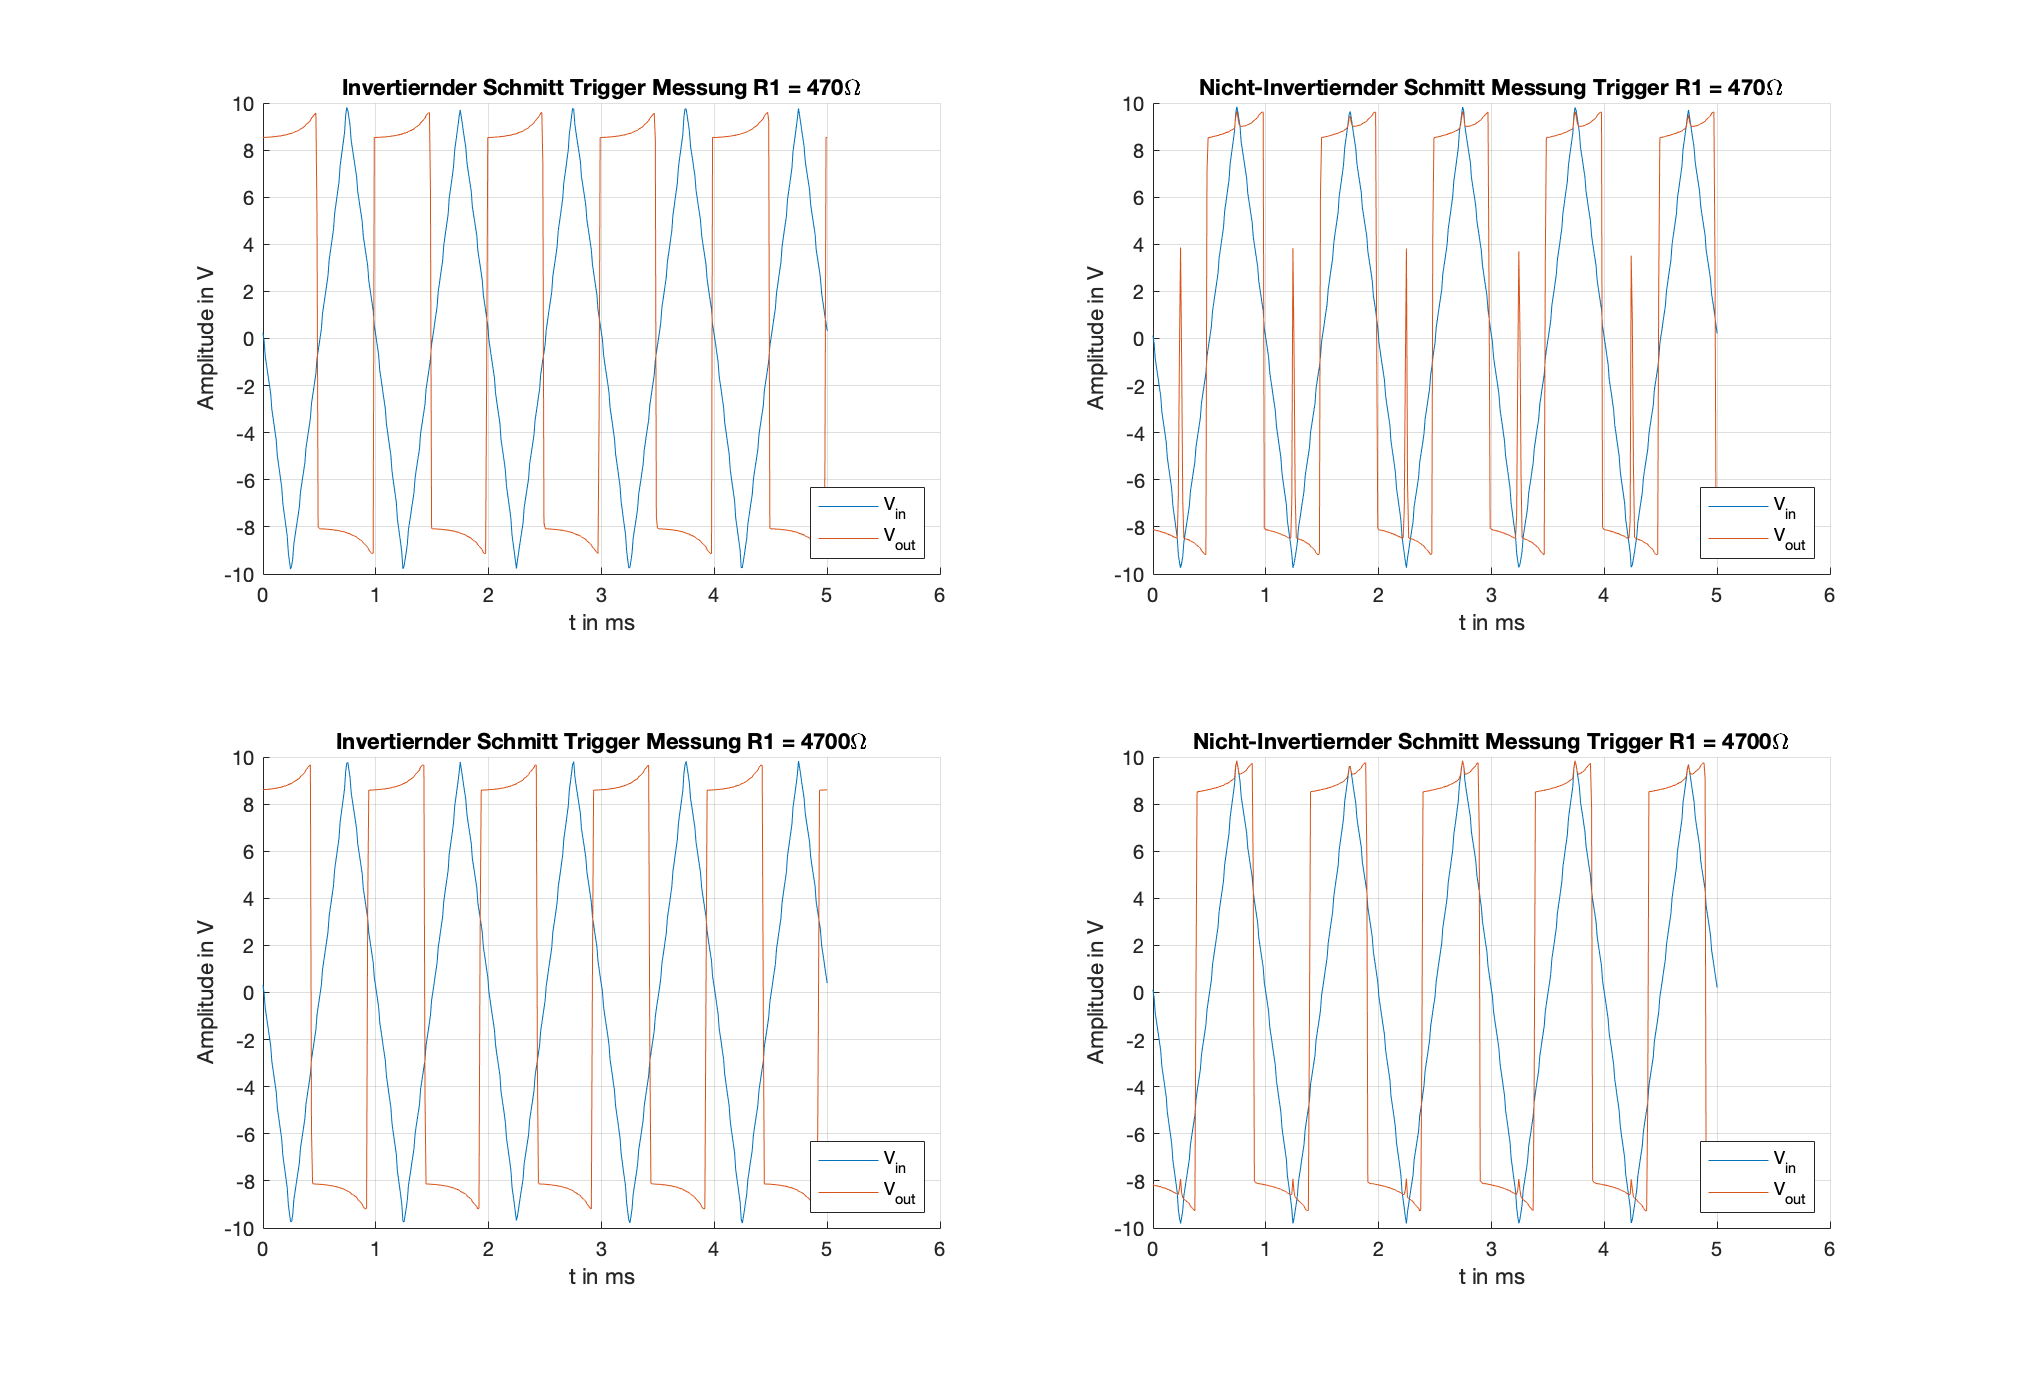
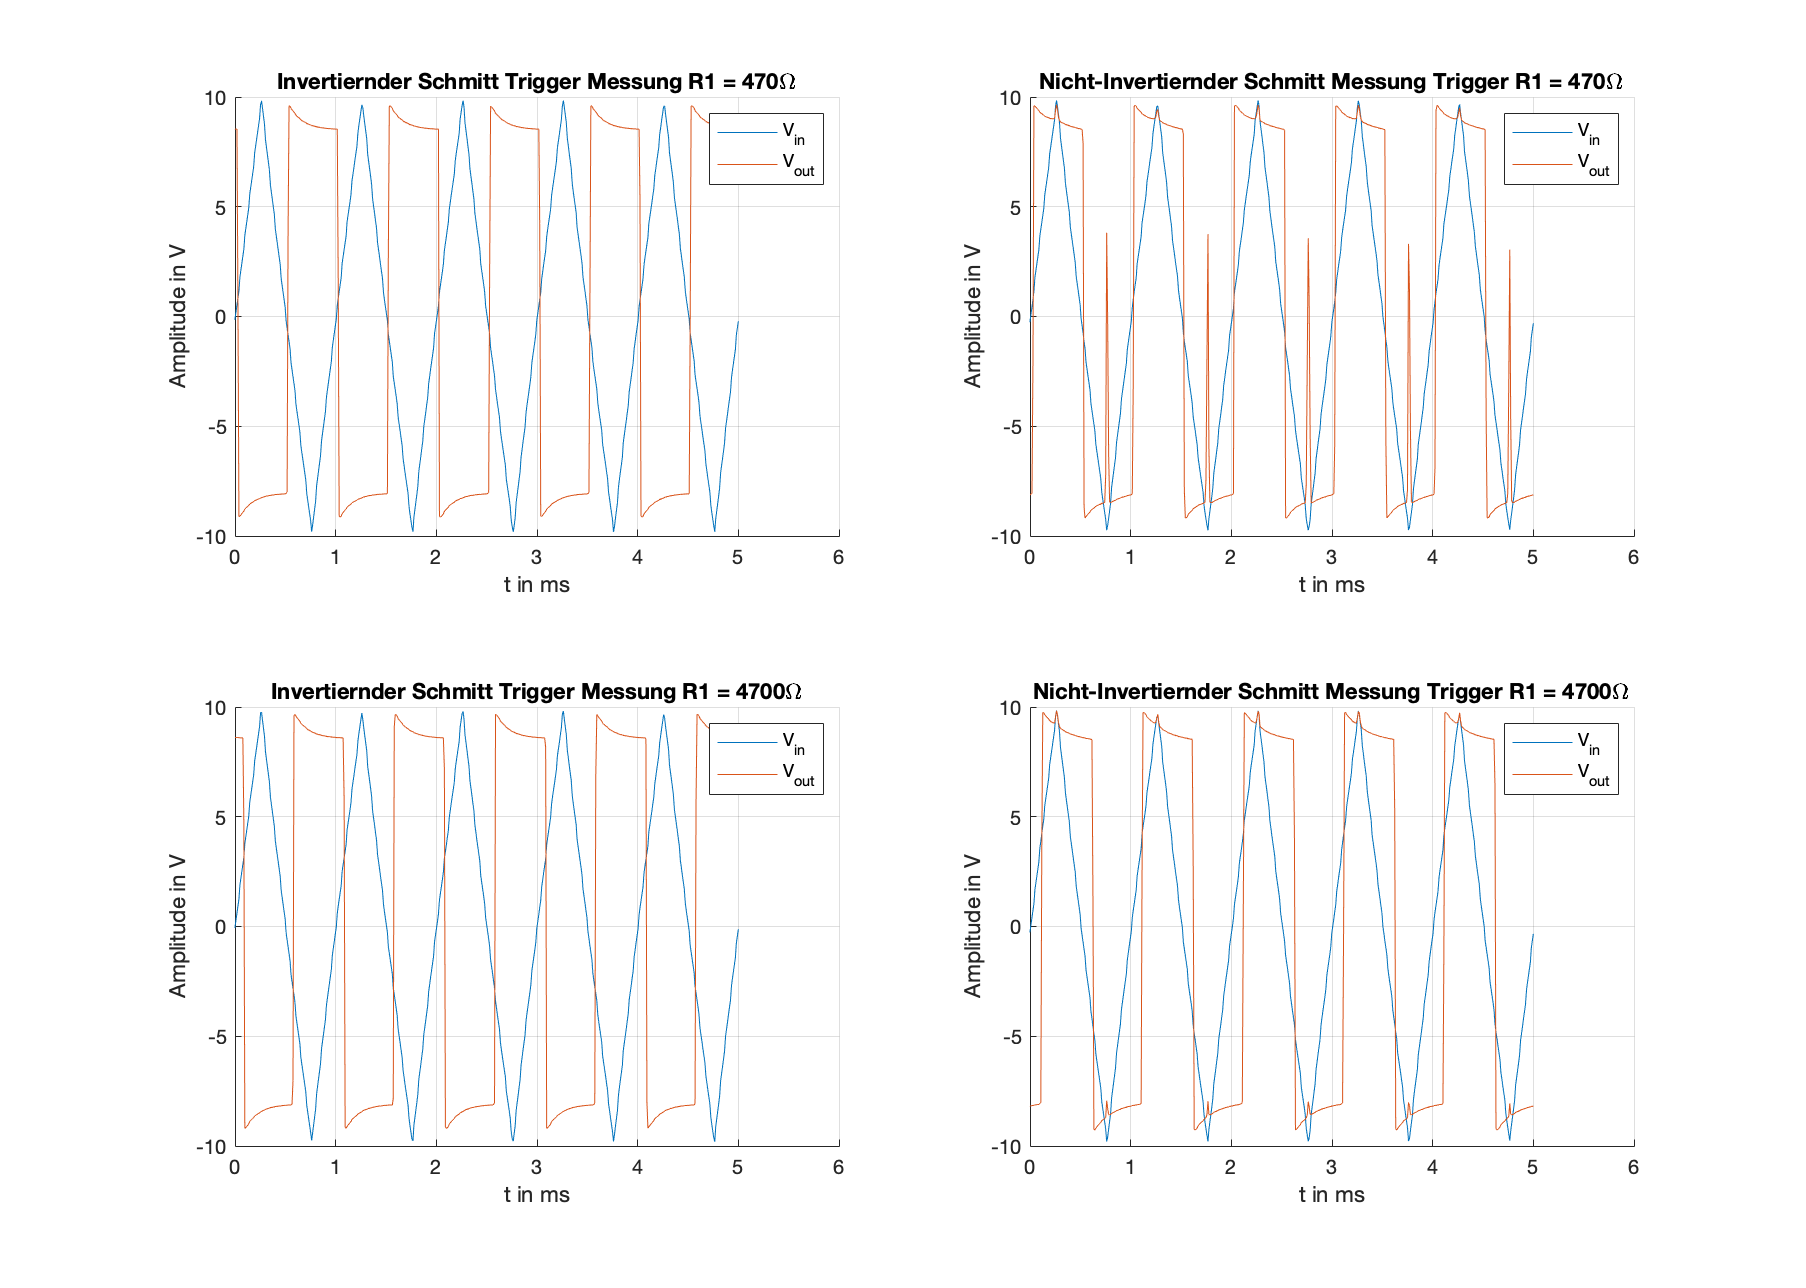
Korrekturen

diff --git a/docs/math/Experiment_02/Messung 2.2.2/triangular_input.m b/docs/math/Experiment_02/Messung 2.2.2/triangular_input.m
@@ -28,7 +28,7 @@ data_4 = textscan(inv_R4700,'%n %n %n');
 fclose(inv_R4700);
 
 %% Anlegen der Matrizen
-time_non_R470 = cell2mat(data_1(1)).*1e-3;
+time_non_R470 = flipud(cell2mat(data_1(1))).*1e-3;
 V_in_non_R470 = cell2mat(data_1(2)).*2;     %(2x) weil 2V pro division
 V_out_non_R470 = cell2mat(data_1(3)).*2;
 
@@ -37,7 +37,7 @@ fehler = fehler.*1e-3;
 fehler(fehler==0) = 1;
 time_non_R470 = (fehler .* time_non_R470).*1e3;
 
-time_non_R4700 = cell2mat(data_2(1)).*1e-3;
+time_non_R4700 = flipud(cell2mat(data_2(1))).*1e-3;
 V_in_non_R4700 = cell2mat(data_2(2)).*2;
 V_out_non_R4700 = cell2mat(data_2(3)).*2;
 
@@ -46,7 +46,7 @@ fehler1 = fehler1.*1e-3;
 fehler1(fehler1==0) = 1;
 time_non_R4700 = (fehler1 .* time_non_R4700).*1e3;
  
-time_inv_R470 = cell2mat(data_3(1)).*1e-3;
+time_inv_R470 = flipud(cell2mat(data_3(1))).*1e-3;
 V_in_inv_R470 = cell2mat(data_3(2)).*2;     %(2x) weil 2V pro division
 V_out_inv_R470 = cell2mat(data_3(3)).*2;
 
@@ -55,7 +55,7 @@ fehler = fehler.*1e-3;
 fehler(fehler==0) = 1;
 time_inv_R470 = (fehler .* time_inv_R470).*1e3;
 
-time_inv_R4700 = cell2mat(data_4(1)).*1e-3;
+time_inv_R4700 = flipud(cell2mat(data_4(1))).*1e-3;
 V_in_inv_R4700 = cell2mat(data_4(2)).*2;
 V_out_inv_R4700 = cell2mat(data_4(3)).*2;
 
@@ -66,50 +66,50 @@ time_inv_R4700 = (fehler1 .* time_inv_R4700).*1e3;
 
 %% Plot der Messungen
 figure(1)
-subplot(221)
+subplot(222)
 hold all
 plot(time_non_R470, V_in_non_R470)
 plot(time_non_R470, V_out_non_R470)
 title('Nicht-Invertiernder Schmitt Messung Trigger R1 = 470\Omega')
 xlabel('t in ms')
 ylabel('Amplitude in V')
-legend('V_{out}', 'V_{in}')
-legend('Location','southeast')
-xlim([-5 6])
+legend('V_{in}','V_{out}')
+legend('Location','northeast')
+xlim([-0 6])
 grid;
 
-subplot(223)
+subplot(224)
 hold all
 plot(time_non_R4700, V_in_non_R4700)
 plot(time_non_R4700, V_out_non_R4700)
 title('Nicht-Invertiernder Schmitt Messung Trigger R1 = 4700\Omega')
 xlabel('t in ms')
 ylabel('Amplitude in V')
-legend('V_{out}', 'V_{in}')
-legend('Location','southeast')
-xlim([-5 6])
+legend('V_{in}','V_{out}')
+legend('Location','northeast')
+xlim([-0 6])
 grid;
 
-subplot(222)
+subplot(221)
 hold all
 plot(time_inv_R470, V_in_inv_R470)
 plot(time_inv_R470, V_out_inv_R470)
 title('Invertiernder Schmitt Trigger Messung R1 = 470\Omega')
 xlabel('t in ms')
 ylabel('Amplitude in V')
-legend('V_{out}', 'V_{in}')
-legend('Location','southeast')
-xlim([-5 6])
+legend('V_{in}','V_{out}')
+legend('Location','northeast')
+xlim([-0 6])
 grid;
 
-subplot(224)
+subplot(223)
 hold all
 plot(time_inv_R4700, V_in_inv_R4700)
 plot(time_inv_R4700, V_out_inv_R4700)
 title('Invertiernder Schmitt Trigger Messung R1 = 4700\Omega')
 xlabel('t in ms')
 ylabel('Amplitude in V')
-legend('V_{out}', 'V_{in}')
-legend('Location','southeast')
-xlim([-5 6])
+legend('V_{in}','V_{out}')
+legend('Location','northeast')
+xlim([-0 6])
 grid;

diff --git a/docs/math/Experiment_02/Messung 2.2.3/astabile_Kippstufe.m b/docs/math/Experiment_02/Messung 2.2.3/astabile_Kippstufe.m
@@ -10,7 +10,7 @@ data_1 = textscan(a_kipp, '%n %n %n');
 fclose(a_kipp);
 
 %% Anlegen der Matrizen
-time = cell2mat(data_1(1));
+time = flipud(cell2mat(data_1(1)));
 Vo = cell2mat(data_1(2));
 Vc = cell2mat(data_1(3));
 
